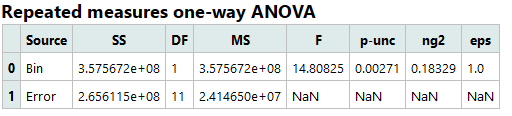
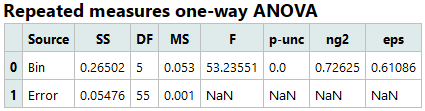
Added the example interpretation for the repeated measure ANOVA Chapter

diff --git a/Writerside/topics/Repeated-Measures-ANOVA.md b/Writerside/topics/Repeated-Measures-ANOVA.md
@@ -4,10 +4,12 @@ Repeated measures ANOVA is used to identify significant differences between the 
 
 ![Figure: Repeated Measure ANOVA](Repeated Measure ANOVA.png)
 
-To perform repeated measures ANOVA using the within-subject factor “time bin” without additional between-subject factors, select the respective data set from the *Add widget* and choose **Repeated measures ANOVA** as the analysis **Mode** in the AN(C)OVA control panel.
+To perform repeated measures ANOVA using the within-subject factor “time bin” without additional between-subject factors, select the respective data set from the *Toolbox* and choose **Repeated measures ANOVA**.
 **Apply (Time) Binning** using the binning mode which defines the repeated measures, i.e. bins, and choose a variable from the **Dependent Variable** list.
 If needed, select a **P-values adjustment** method or adjust the **Effect size type** via the dropdown menu.
 Click **Update** to calculate analysis results and apply changes in the analysis settings.
+
+![Apply Binning widegts.png](Apply Binning widegts.png)
 
 > **Note**: Repeated measures ANOVA is only be performed if **Time Binning** is applied.
 {style='note'}
@@ -70,3 +72,48 @@ Analysis result tables for repeated measures ANOVA include:
 {style = 'warning'}
 
 ![Figure: Pop-up window to decide on pairwise comparisons for repeated measures ANOVA for binning by time intervals](perform-pairwise-tests-dialog.png)
+
+## Example Interpretation
+
+Based on the example dataset analyzed below, in an animal metabolic experiment, the **RER (Respiratory Exchange Ratio)** was continuously recorded using the PhenoMaster system.
+Data were processed using the Time Interval binning mode, where each time bin represents an **8-hour interval**.
+
+![Figure: Repeated Measures ANOVA Example](Repeated Measures ANOVA Example.png)
+
+**1. Sphericity Test**
+
+Before interpreting repeated measures ANOVA, the sphericity assumption must be checked.
+Sphericity indicates whether the variances of the differences between all pairs of repeated measures (time bins) are equal.
+
+![Figure: Sphericity test](Sphericity test.png)
+
+Since the software reports **Sphericity = True，p = 1.0 (> 0.05)**, the data satisfy the sphericity assumption, meaning that the variances of the differences between all pairs of repeated measures (time bins) are approximately equal.
+
+**2. Repeated Measures One-way ANOVA**
+
+The ANOVA table summarizes variance between time bins (temporal effect) versus within subjects (individual variability).
+
+![Figure: Repeated measures one-way ANOVA](Repeated measures one-way ANOVA.png)
+
+The **F statistic (F = 53.24)** is large and the **p-value (< 0.001)** is highly significant, indicating that RER values **differ significantly across time intervals**.
+The **effect size (η²g = 0.726)** is very large, showing that approximately **73% of the total variance** in RER is explained by time-dependent changes.
+This result strongly suggests **a robust temporal pattern** in RER across the 8-hour bins.
+
+**3. Pairwise Post-hoc Tests**
+
+Pairwise post-hoc comparisons identify which specific time bins differ from each other.
+
+![Figure: Pairwise post-hoc tests](Pairwise post-hoc tests.png)
+
+Key results from the table:
+
+- Several comparisons show highly significant differences (e.g., **Bin 0 vs Bin 2: p = 0.00001, Bin 0 vs Bin 5: p = 0.00000**).
+
+- All tests are **paired** (same animals measured repeatedly).
+
+- The **Hedges g** values (e.g., 3.17, 4.13) indicate **large effect sizes**, supporting strong temporal changes in RER.
+
+- The **Bayes Factors (BF10 > 1000)** further confirm strong evidence for differences between certain bins.
+
+From this example, RER values show significant and substantial differences between multiple time intervals, confirming that RER fluctuates dynamically across the day.
+This pattern may correspond to diurnal metabolic shifts (e.g., higher carbohydrate oxidation during active/dark phases and higher fat oxidation during resting/light phases).

diff --git a/Writerside/topics/N-way-ANOVA.md b/Writerside/topics/N-way-ANOVA.md
@@ -4,7 +4,7 @@ N-way ANOVA can be used to determine the effects of two or more (between-subject
 
 ![Figure: N-way ANOVA](N-way ANOVA.png)
 
-To perform N-way ANOVA (Two-way ANOVA, Three-way ANOVA, Four-way ANOVA, …) in TSE Analytics, select the respective data set from the *Add widget* and choose **N-way ANOVA** as the analysis **Mode** in the AN(C)OVA control panel.
+To perform N-way ANOVA (Two-way ANOVA, Three-way ANOVA, Four-way ANOVA, …) in TSE Analytics, select the respective data set from the *Add widget* and choose **N-way ANOVA**.
 Select two or more factors from the **Factors** list and choose a variable from the **Dependent Variable** list.
 If needed, select a **P-values adjustment** method or adjust the **Effect size type** via the dropdown menu.
 Click **Update** to calculate results and apply changes in the analysis settings.

diff --git a/Writerside/topics/One-way-ANOVA.md b/Writerside/topics/One-way-ANOVA.md
@@ -4,8 +4,7 @@ One-way ANOVA tests whether groups defined by a single factor differ significant
 
 ![Figure: One-way ANOVA Widget](One-way ANOVA Widget.png)
 
-
-To perform one-way ANOVA in TSE Analytics, select the respective data set from the *Add widget* and choose **One-way ANOVA** as the analysis **Mode** in the AN(C)OVA control panel.
+To perform one-way ANOVA in TSE Analytics, select the respective data set from the *Toolbox* and choose **One-way ANOVA**.
 Select one factor from the **Factors** list and choose a variable from the **Dependent Variable** list.
 If needed, adjust the **Effect size type** via the dropdown menu. Click **Update** to calculate analysis results.
 

diff --git a/Writerside/topics/Regression.md b/Writerside/topics/Regression.md
@@ -25,9 +25,9 @@ Data points for each time bin are shown as individual dots in the scatter plot, 
 
 ## Regression results table
 
-![Figure: Regression analysis results table](regression-results-table.png)
+![Linear Regression table.png](Linear Regression table.png)
 
-The GLM (Generalized Linear Model) table shows the statistical results of the linear regression, under consideration of the selected split mode and time binning settings:
+The linear regression table shows the statistical results of the linear regression, under consideration of the selected split mode and time binning settings:
 
 Results include (from left to right):
 
